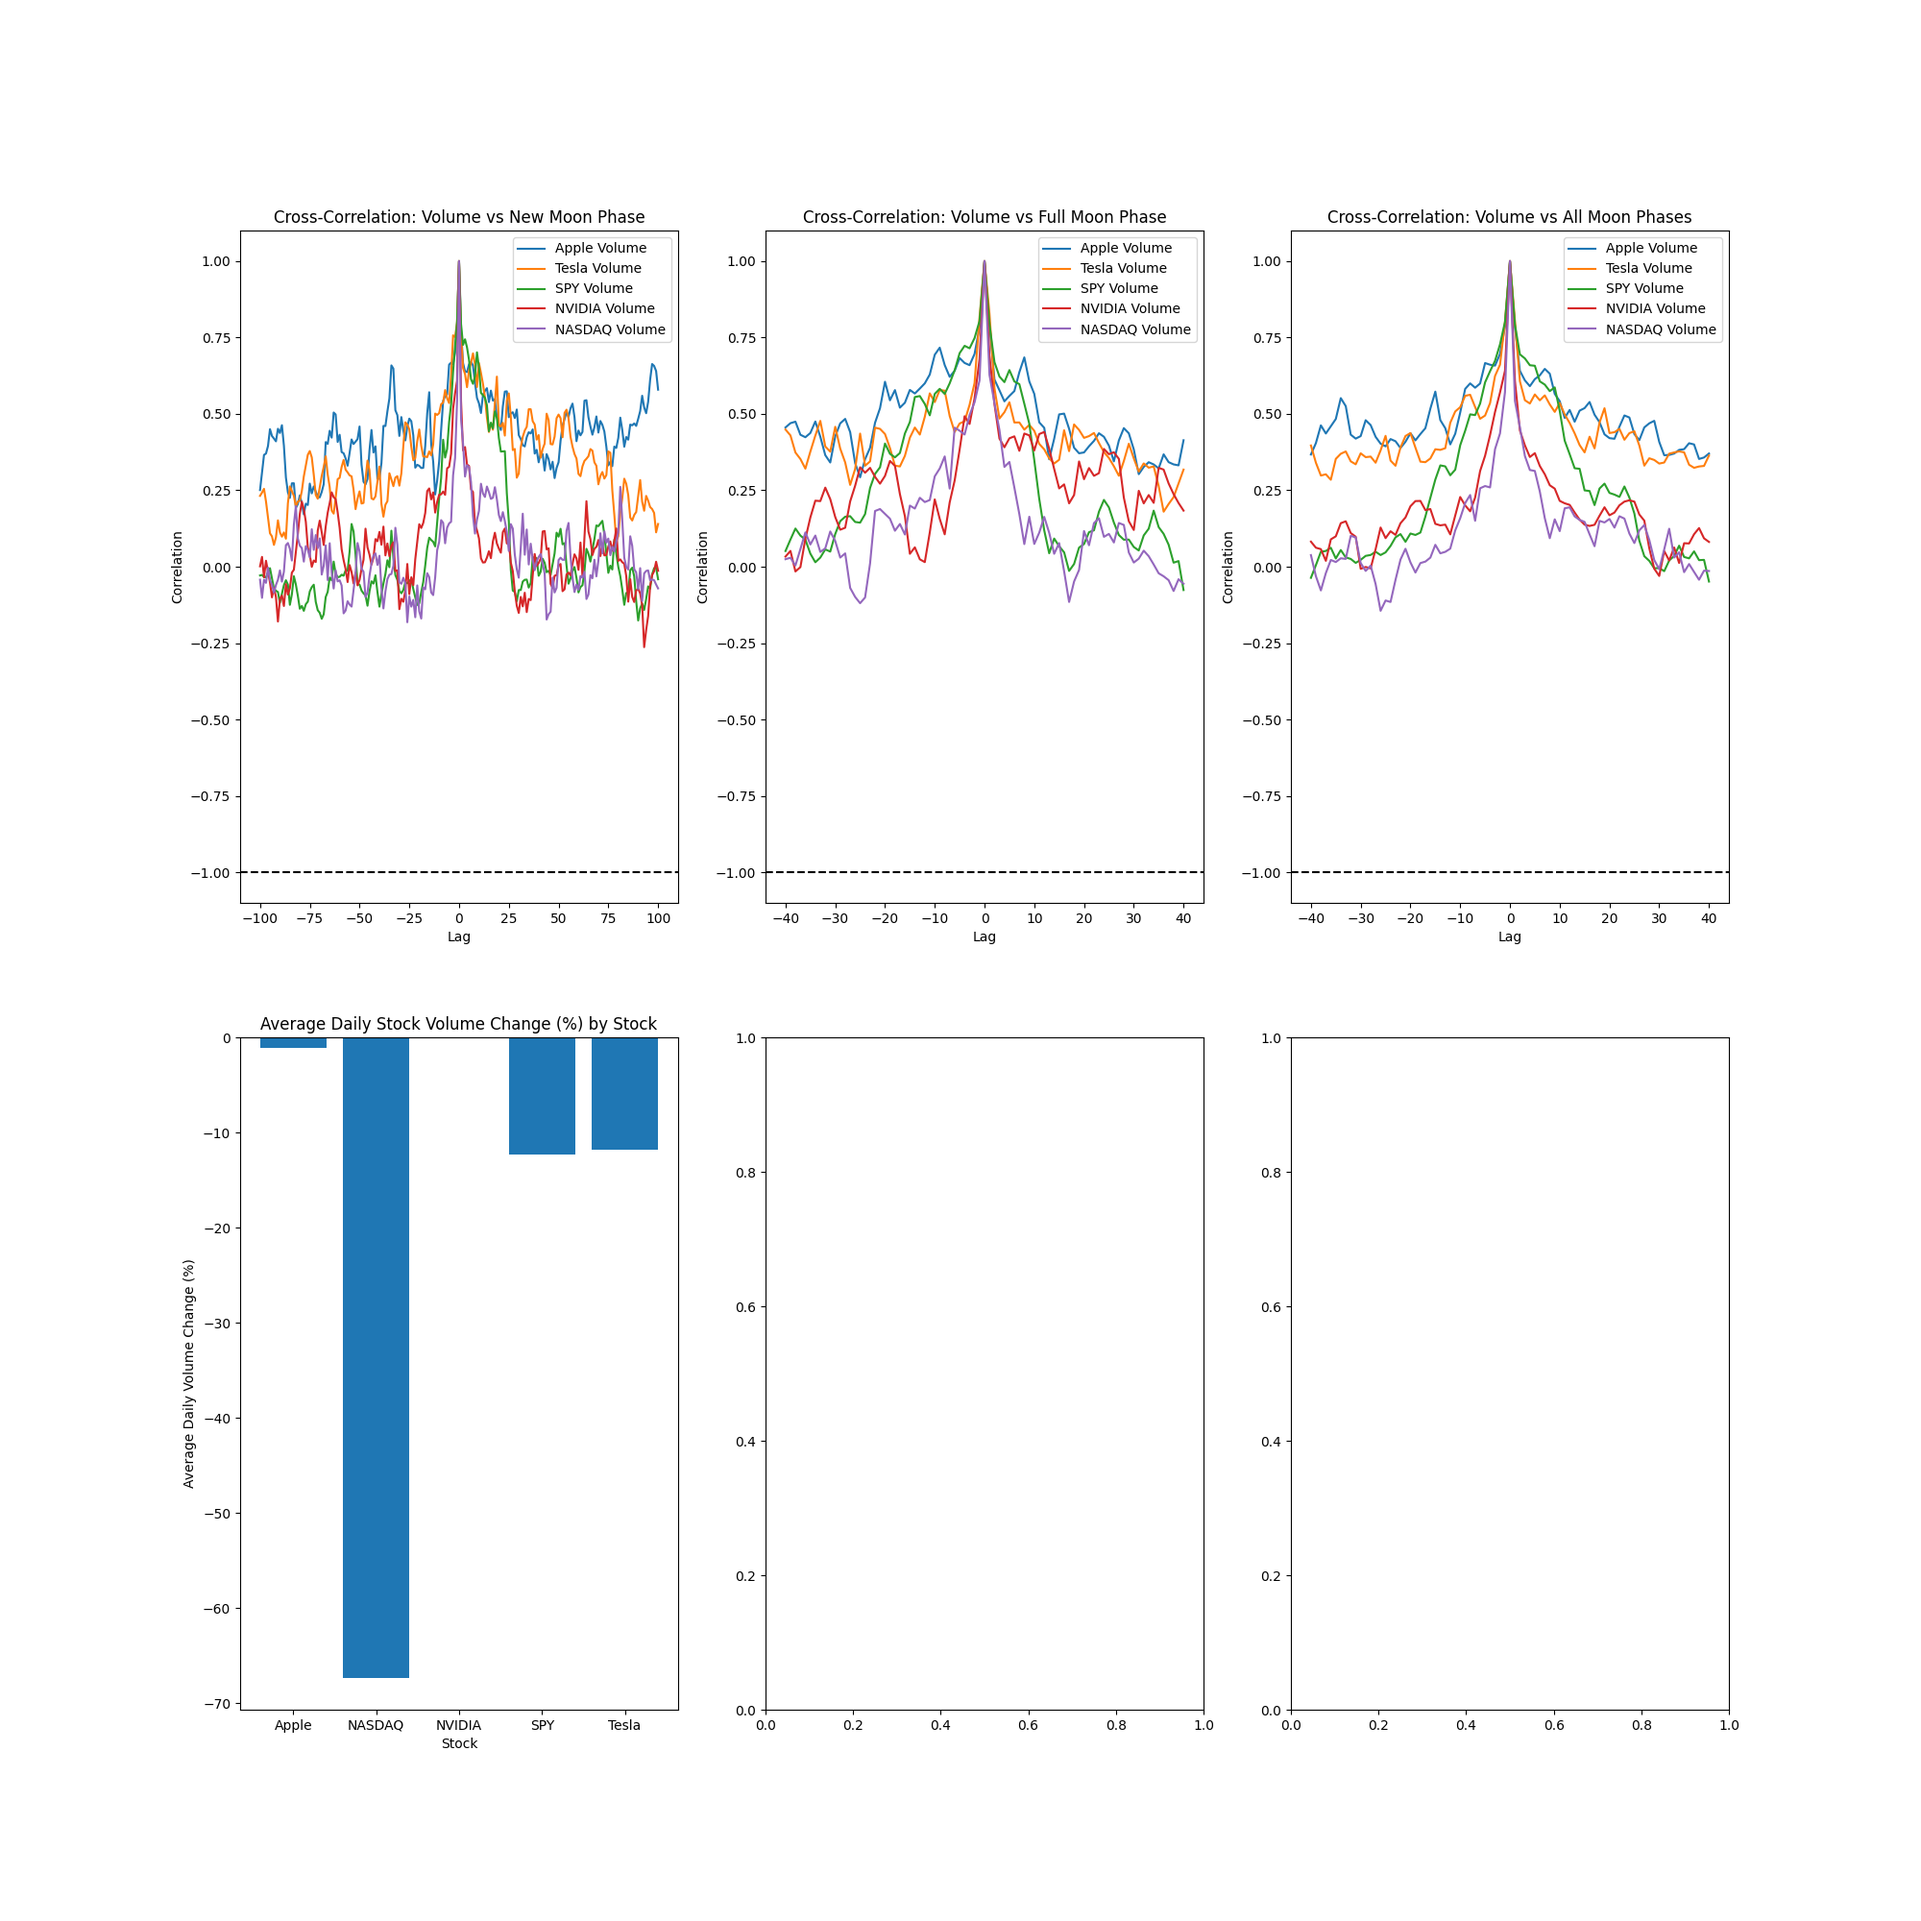
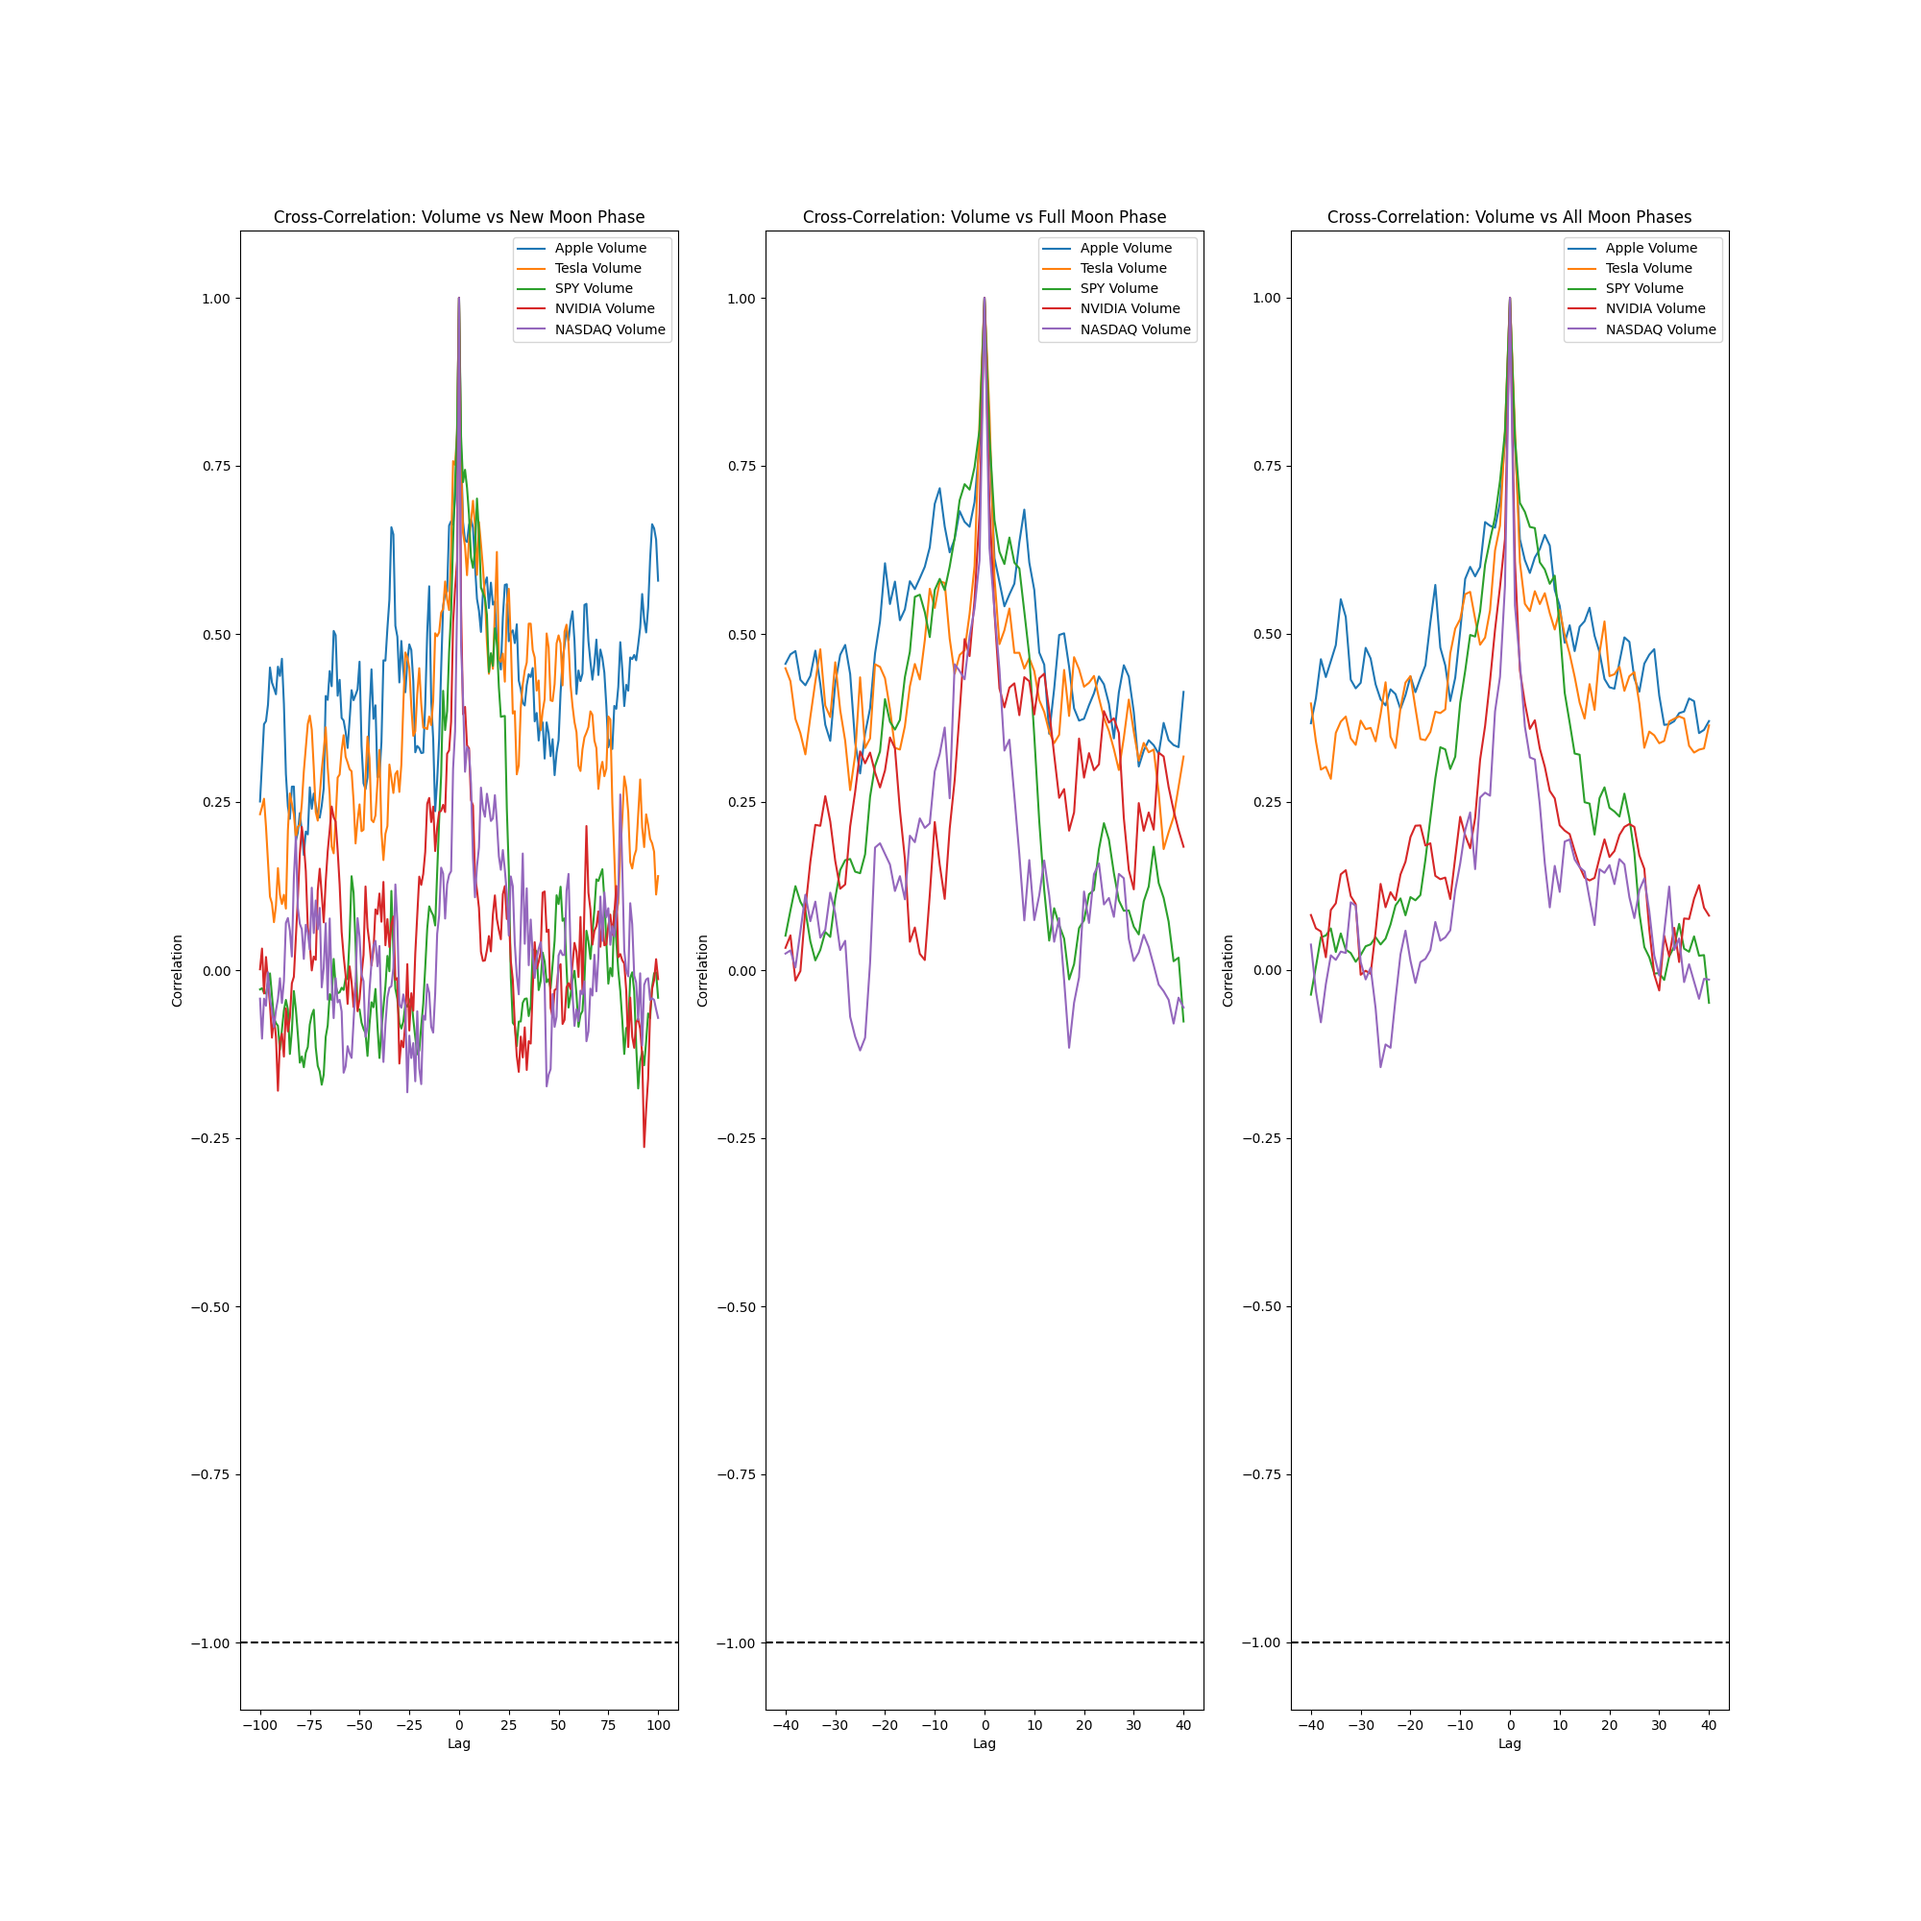
updated visuals v2
put the bar graph as its own seperate figure

diff --git a/analysis_files/Emilio/volume_moon_correlation_visuals.py b/analysis_files/Emilio/volume_moon_correlation_visuals.py
@@ -272,7 +272,7 @@ def cross_correlation_visual_all_moonphases(): # Visualize the correlation betwe
 cross_correlation_visual_all_moonphases()
 
 # Create a figure with 1 subplot: bar graph
-fig3, (ax10) = plt.subplots(1, 1, figsize=(10, 10))
+fig10, (ax10) = plt.subplots(1, 1, figsize=(10, 10))
 
 def average_daily_stock_volume_change_percentage_moon_phase(): # Visualize the average daily stock volume change percentage as bar graphs for each stock
     moon_phases_filter = ['New Moon', 'Waxing Crescent Moon', 'First Quarter Moon', 'Waxing Gibbous Moon', 'Full Moon', 'Waning Gibbous Moon', 'Last Quarter Moon', 'Waning Crescent Moon']
@@ -297,6 +297,7 @@ def average_daily_stock_volume_change_percentage_moon_phase(): # Visualize the a
     ax10.set_xlabel('Stock')
     ax10.set_ylabel('Average Daily Volume Change (%)')
     ax10.set_title('Average Daily Stock Volume Change (%) by Stock')
+    fig10.savefig("emilio_plots_13.png")
 average_daily_stock_volume_change_percentage_moon_phase()
 
 def apple_volume_vs_price_new_moon():
